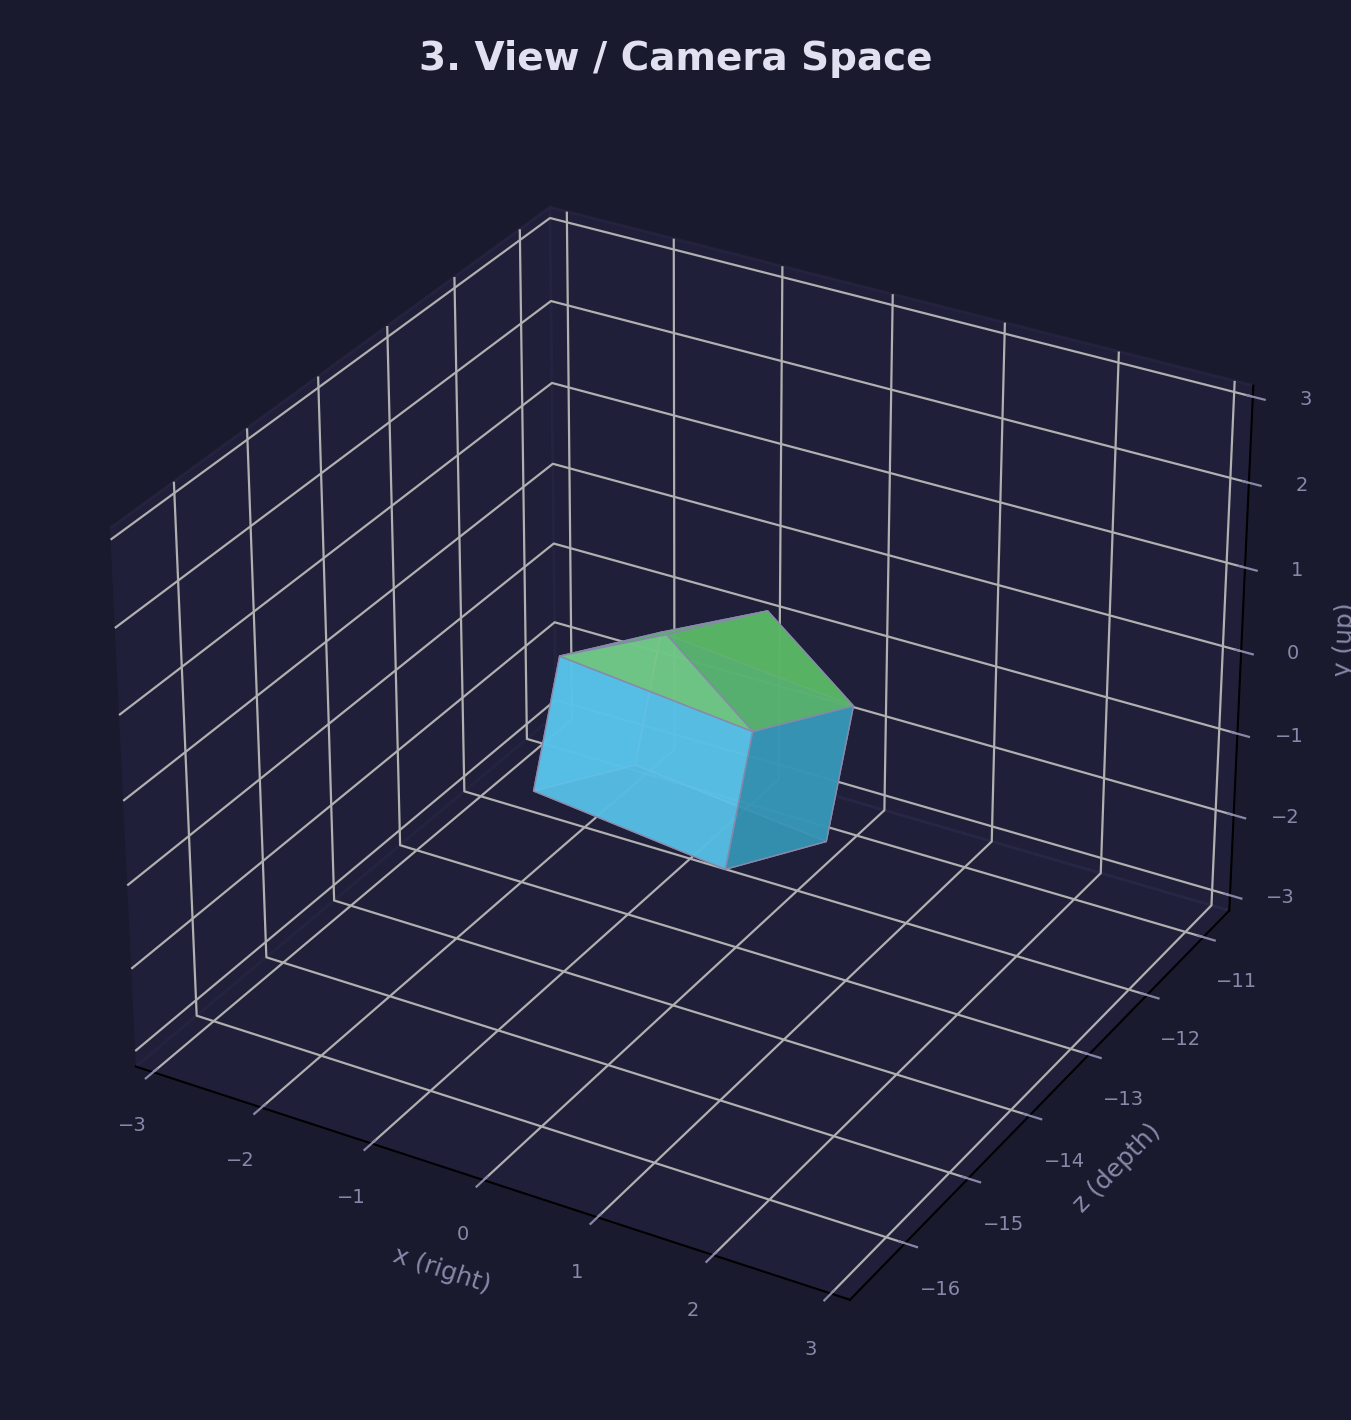
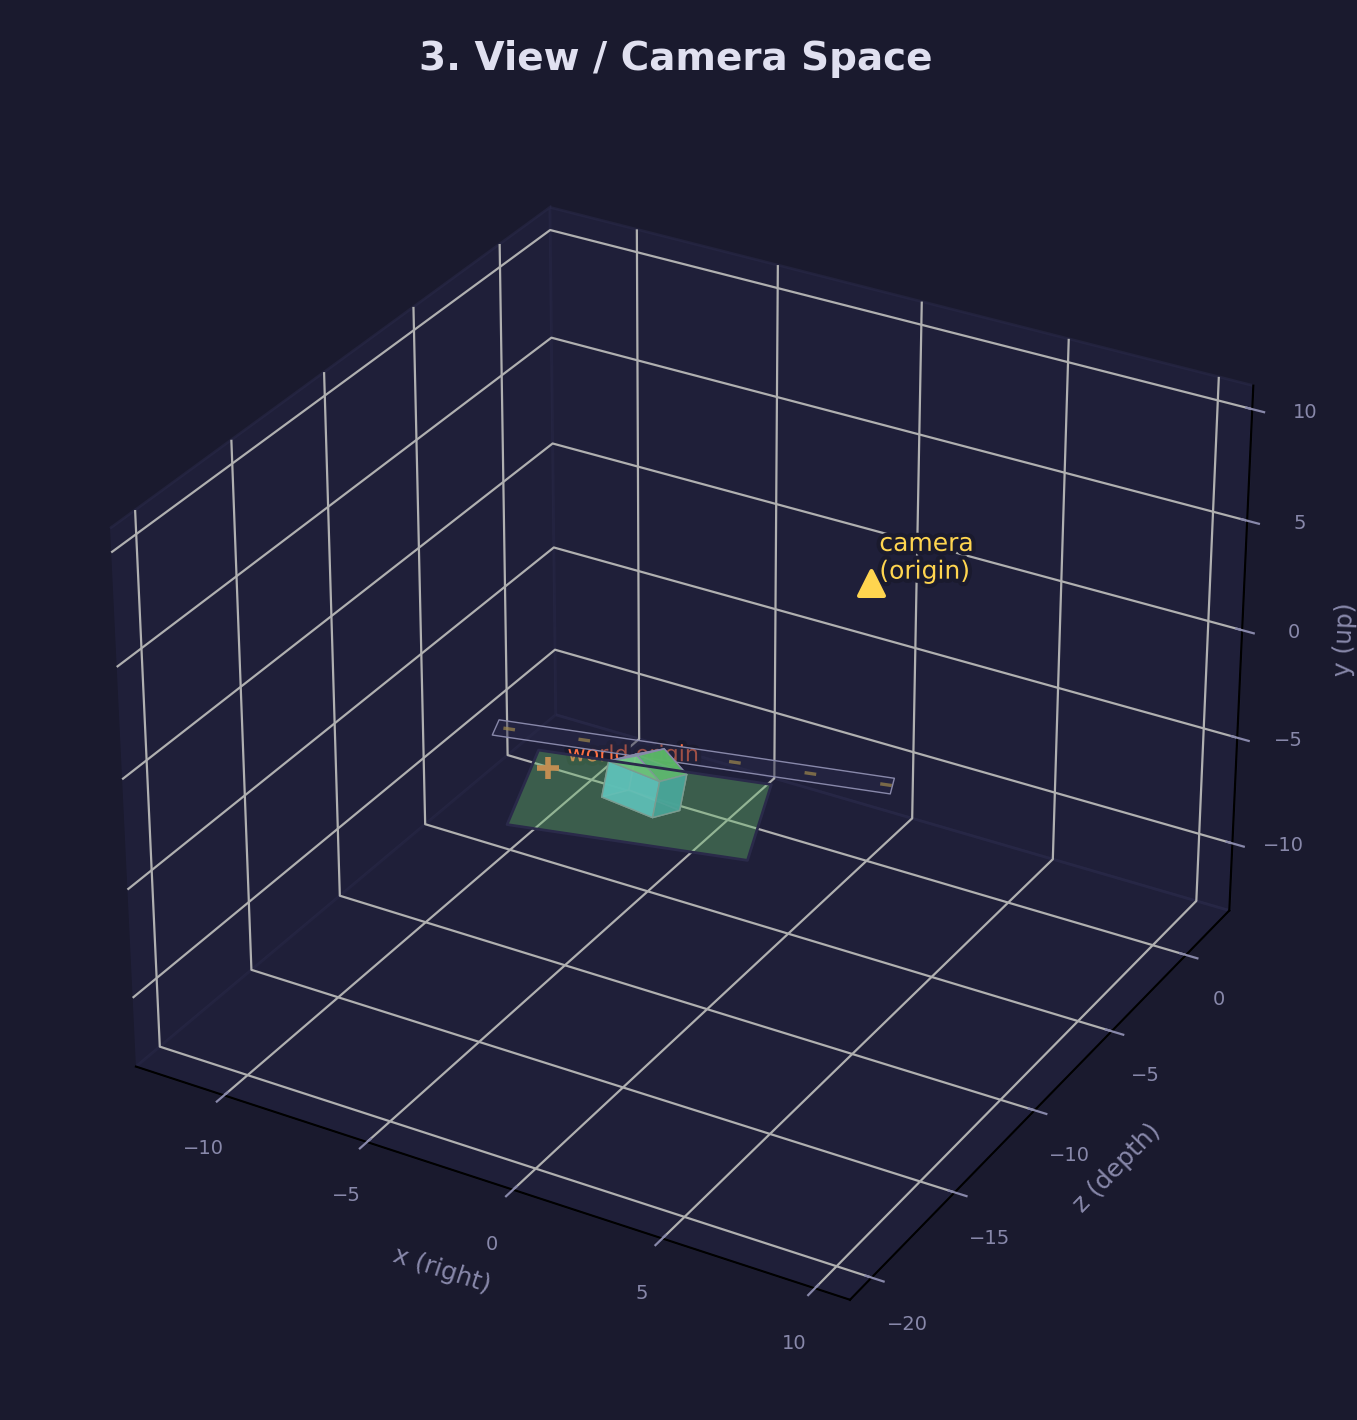
Add full scene to view/camera space diagram
The view space diagram previously only showed the house with a tight
grid, making it indistinguishable from the local space diagram. Now it
includes the ground plane, road, and world origin — all transformed
through the view matrix — so learners can see the same scene from the
world space diagram re-expressed relative to the camera at the origin.

https://claude.ai/code/session_01AGiQyVxJrWT3WK4kVqsp9S

diff --git a/scripts/forge_diagrams/math_diagrams.py b/scripts/forge_diagrams/math_diagrams.py
@@ -4415,17 +4415,106 @@ def diagram_coord_world_space():
 
 
 def diagram_coord_view_space():
-    """House re-expressed relative to the camera at the origin."""
+    """Whole scene re-expressed relative to the camera at the origin."""
     from mpl_toolkits.mplot3d import Axes3D  # noqa: F401
+    from mpl_toolkits.mplot3d.art3d import Poly3DCollection
 
-    fig = plt.figure(figsize=(7, 7), facecolor=STYLE["bg"])
+    fig = plt.figure(figsize=(8, 7), facecolor=STYLE["bg"])
     ax: Axes3D = fig.add_subplot(111, projection="3d")  # type: ignore[assignment]
 
-    _, view_verts, _, _, _, _ = _coord_pipeline()
-    mpl_verts = _gpu_to_mpl(view_verts)
-    _add_house_3d(ax, mpl_verts)
+    # --- Transform house into view space ---
+    world_verts, view_verts, _, _, _, _ = _coord_pipeline()
+    mpl_house = _gpu_to_mpl(view_verts)
+    _add_house_3d(ax, mpl_house)
 
-    # Camera at origin (mpl coords)
+    # --- Reconstruct the same ground plane used in the world-space diagram,
+    #     then transform it into view space ---
+    hc = world_verts.mean(axis=0)  # house centre in GPU world coords
+    gnd_size = 7.0
+    ghs = gnd_size / 2.0
+    # Ground quad corners in GPU world space (y = 0 is the ground)
+    ground_world = np.array(
+        [
+            [hc[0] - ghs, 0.0, hc[2] - ghs],
+            [hc[0] + ghs, 0.0, hc[2] - ghs],
+            [hc[0] + ghs, 0.0, hc[2] + ghs],
+            [hc[0] - ghs, 0.0, hc[2] + ghs],
+        ]
+    )
+    ground_view = _xf3(ground_world, _VIEW_MAT)
+    ground_mpl = _gpu_to_mpl(ground_view)
+    col_gnd = Poly3DCollection(
+        [ground_mpl.tolist()],
+        facecolors=[STYLE["accent3"]],
+        edgecolors=[STYLE["grid"]],
+        alpha=0.40,
+    )
+    ax.add_collection3d(col_gnd)
+
+    # --- Road (same as world-space diagram, transformed to view space) ---
+    road_x0, road_x1 = -2.0, 10.0
+    road_z = hc[2] + 5.0  # GPU z centre of road
+    road_hw = 1.5 / 2.0
+    road_world = np.array(
+        [
+            [road_x0, 0.0, road_z - road_hw],
+            [road_x1, 0.0, road_z - road_hw],
+            [road_x1, 0.0, road_z + road_hw],
+            [road_x0, 0.0, road_z + road_hw],
+        ]
+    )
+    road_view = _xf3(road_world, _VIEW_MAT)
+    road_mpl = _gpu_to_mpl(road_view)
+    col_road = Poly3DCollection(
+        [road_mpl.tolist()],
+        facecolors=[STYLE["grid"]],
+        edgecolors=[STYLE["text_dim"]],
+        linewidths=0.5,
+        alpha=0.45,
+    )
+    ax.add_collection3d(col_road)
+
+    # Road centre dashes
+    n_dash = 6
+    dash_xs_world = np.linspace(road_x0 + 0.3, road_x1 - 0.3, n_dash)
+    for xd in dash_xs_world:
+        seg_world = np.array([[xd, 0.001, road_z], [xd + 0.25, 0.001, road_z]])
+        seg_view = _xf3(seg_world, _VIEW_MAT)
+        seg_mpl = _gpu_to_mpl(seg_view)
+        ax.plot(
+            seg_mpl[:, 0],
+            seg_mpl[:, 1],
+            seg_mpl[:, 2],
+            color=STYLE["warn"],
+            lw=1.2,
+            alpha=0.7,
+        )
+
+    # --- World origin transformed into view space ---
+    origin_view = _xf3(np.array([[0.0, 0.0, 0.0]]), _VIEW_MAT)
+    origin_mpl = _gpu_to_mpl(origin_view).flatten()
+    ax.scatter(
+        [origin_mpl[0]],
+        [origin_mpl[1]],
+        [origin_mpl[2]],  # type: ignore[arg-type]
+        color=STYLE["accent2"],
+        s=60,
+        marker="+",
+        linewidths=2,
+        zorder=10,
+        depthshade=False,
+    )
+    ax.text(
+        origin_mpl[0] + 0.3,
+        origin_mpl[1] + 0.6,
+        origin_mpl[2],
+        "world origin",
+        color=STYLE["accent2"],
+        fontsize=8,
+        path_effects=[pe.withStroke(linewidth=3, foreground=STYLE["bg"])],
+    )
+
+    # --- Camera at origin (this IS view space, so camera sits at [0,0,0]) ---
     ax.scatter(
         [0],
         [0],
@@ -4441,13 +4530,17 @@ def diagram_coord_view_space():
         0.3,
         0.0,
         0.3,
-        "camera",
+        "camera\n(origin)",
         color=STYLE["warn"],
         fontsize=9,
         path_effects=[pe.withStroke(linewidth=3, foreground=STYLE["bg"])],
     )
 
-    _set_equal_3d(ax, mpl_verts, pad=2.0)
+    # --- Frame the whole scene (house + ground + road + camera + origin) ---
+    all_pts = np.vstack(
+        [mpl_house, ground_mpl, road_mpl, origin_mpl.reshape(1, 3), [[0, 0, 0]]]
+    )
+    _set_equal_3d(ax, all_pts, pad=3.0)
     ax.view_init(elev=30, azim=-60)
     _style_3d(
         ax,
